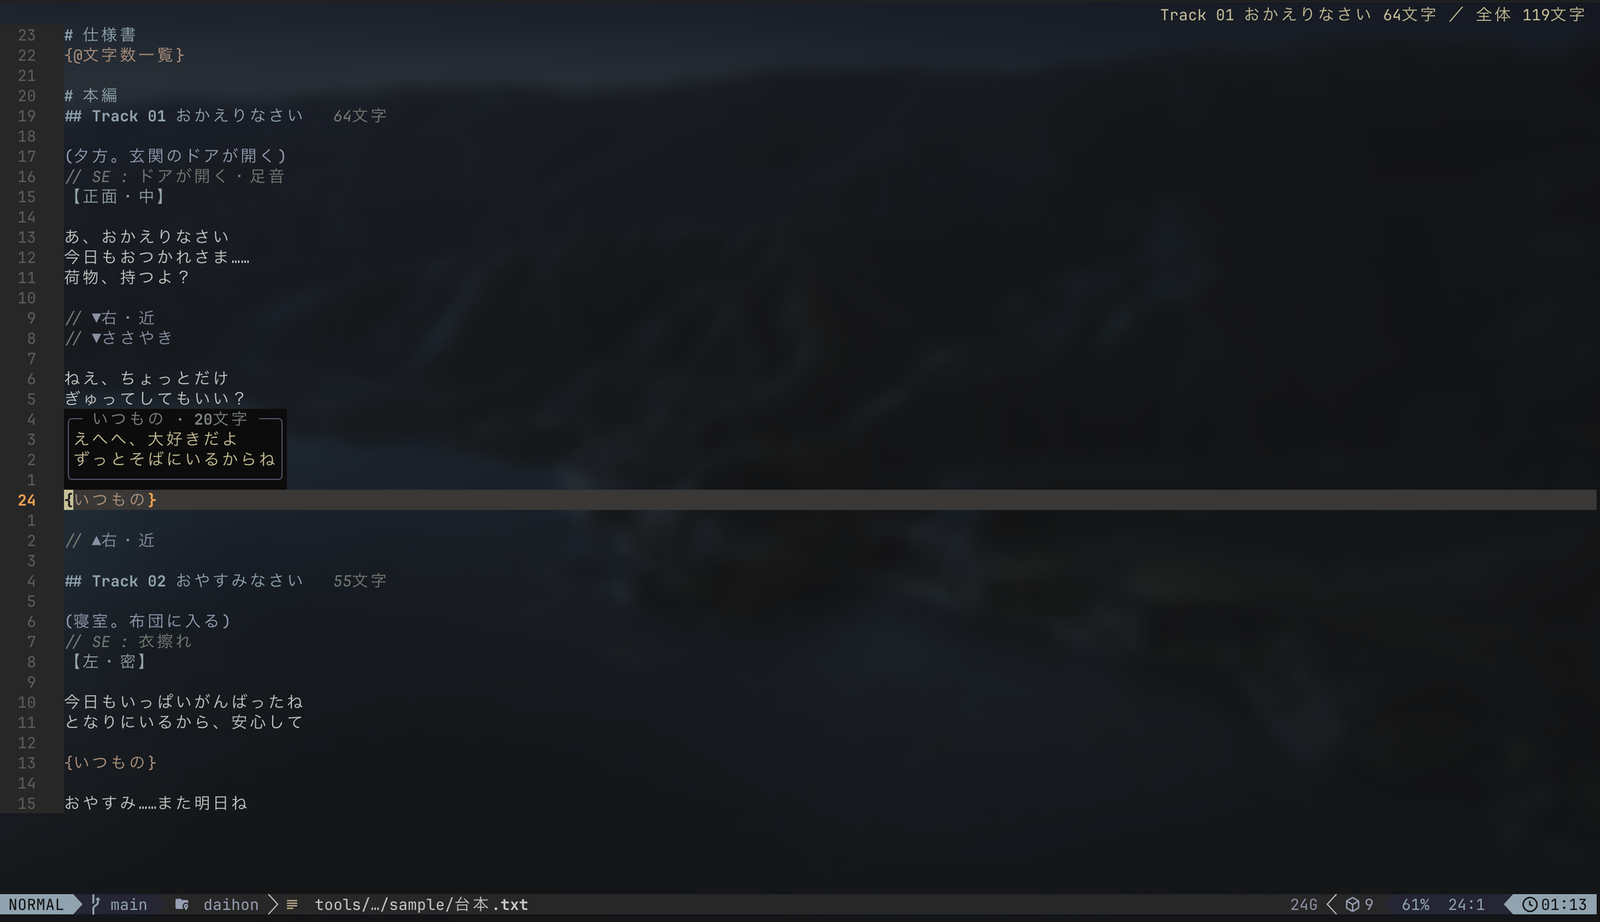
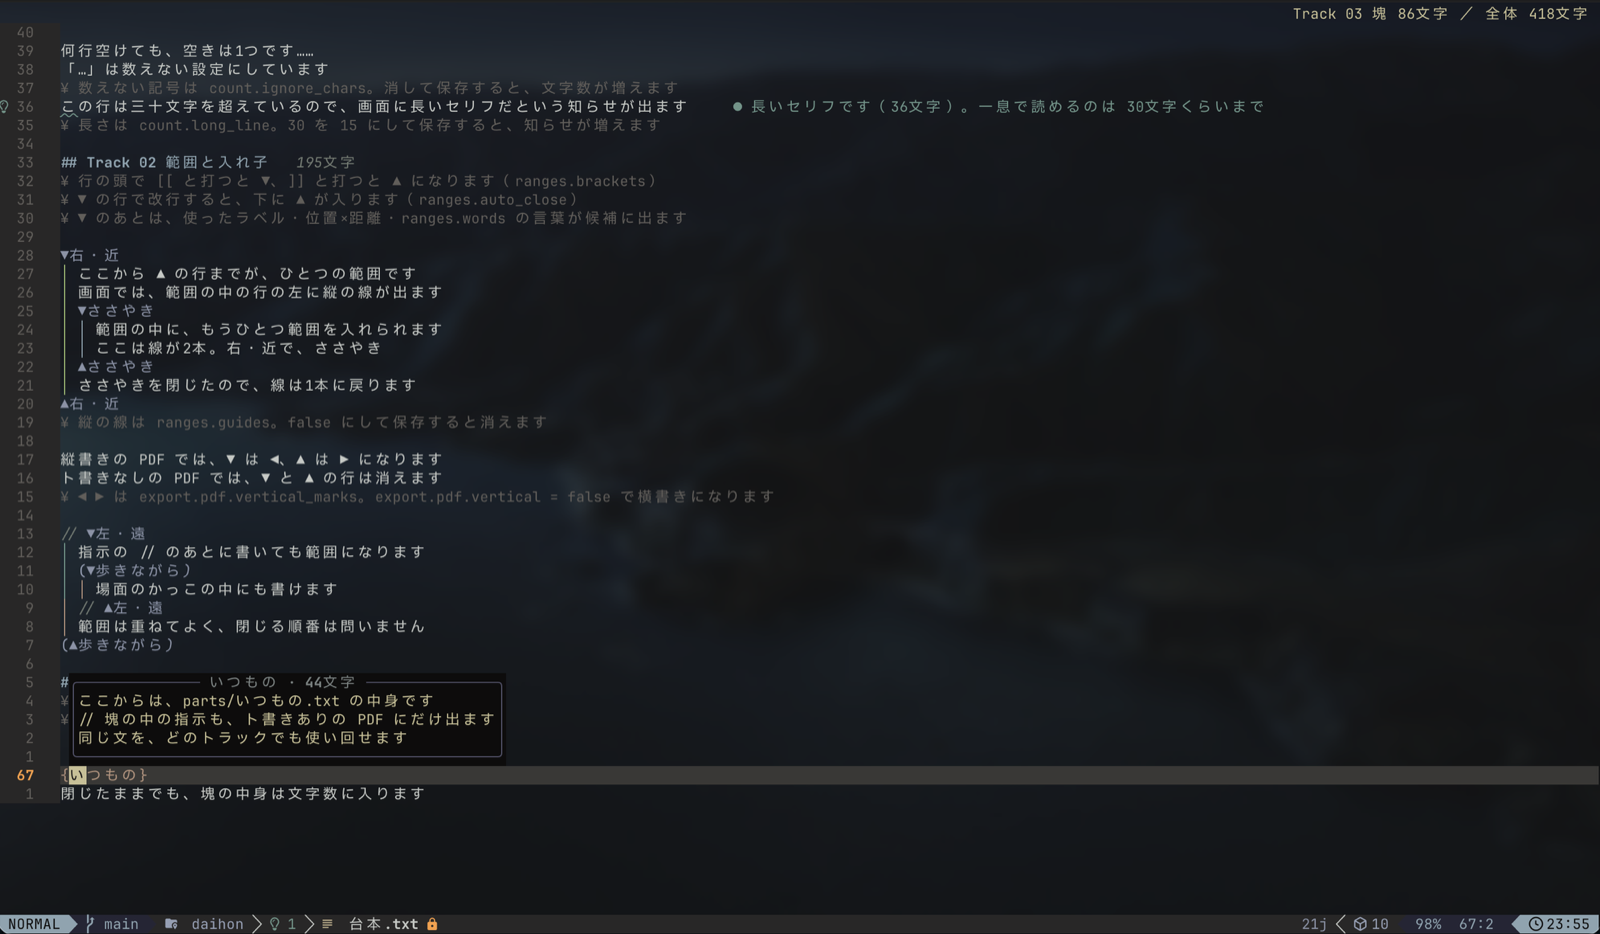
例の作品を、どの行がどこに出るか・設定で何が変わるかの説明に書き直す
- 台本の各行に、どちらの PDF に出るかを書いた。画面だけの説明（キー・設定の名前）は ¥ のメモに
- daihon.lua を設定の見本に。よく変える設定を既定の値で並べ、★ の所だけ変えた（※ の種類・数えない記号・候補の言葉）
- README の例・:h daihon の例・PDF の画像を新しい例に合わせた

diff --git a/README.md b/README.md
@@ -54,19 +54,21 @@ nvim を開き直して `:checkhealth daihon` を打ちます。✅ が並べば
 
 ```text
 # 本編
-## Track 01 おかえりなさい
+## Track 01 行の種類
 
-(夕方。玄関のドアが開く)
-// SE : ドアが開く・足音
-【正面・中】
+(この行は場面。ト書きありの PDF にだけ出ます)
+// SE : ドアが開く
+【この行は位置。ト書きありの PDF にだけ出ます】
+¥ この行はメモ。どちらの PDF にも出ません
 
-あ、おかえりなさい
-今日もおつかれさま……
+記号で始まらない行は、全部セリフです
 
 ▼右・近
-ねえ、ちょっとだけ
+ここから ▲ の行までが、ひとつの範囲です
+▼ささやき
+範囲の中に、もうひとつ範囲を入れられます
+▲ささやき
 ▲右・近
-¥ ここは間をたっぷり取る
 {いつもの}
 ```
 
@@ -88,7 +90,7 @@ nvim を開き直して `:checkhealth daihon` を打ちます。✅ が並べば
 
 `// SE : ` と打つと、登録した SE とこの台本で使った SE が候補に出るので、書き方の揺れがそろいます。
 
-ほかのコマンドは `:dh count`（文字数の一覧）、`:dh pick`（塊を選んで差し込む）、`:dh toggle`（塊を開く／閉じる）です。動く例は [examples/sample](examples/sample) にあります。
+ほかのコマンドは `:dh count`（文字数の一覧）、`:dh pick`（塊を選んで差し込む）、`:dh toggle`（塊を開く／閉じる）です。動く例は [examples/sample](examples/sample) にあります。台本の中のメモに、どの設定で何が変わるかを書いてあるので、`daihon.lua` の値を変えて保存すると、その場で試せます。
 
 ## もっと詳しく
 
